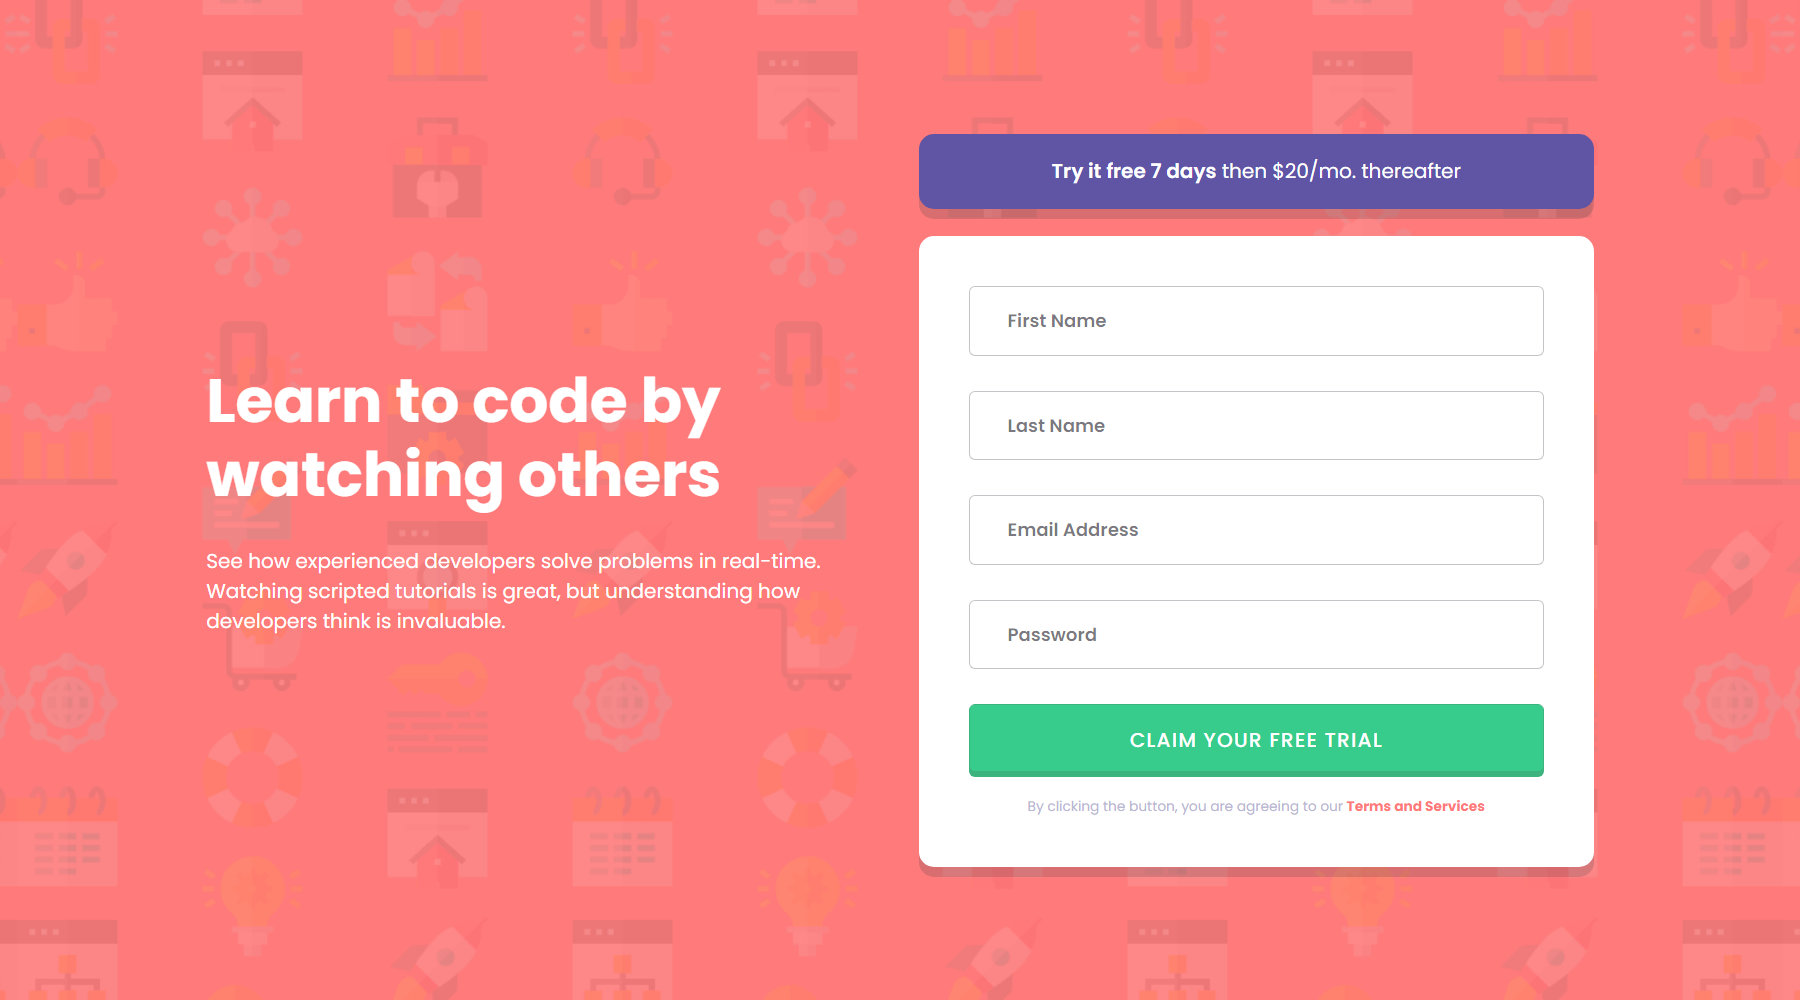
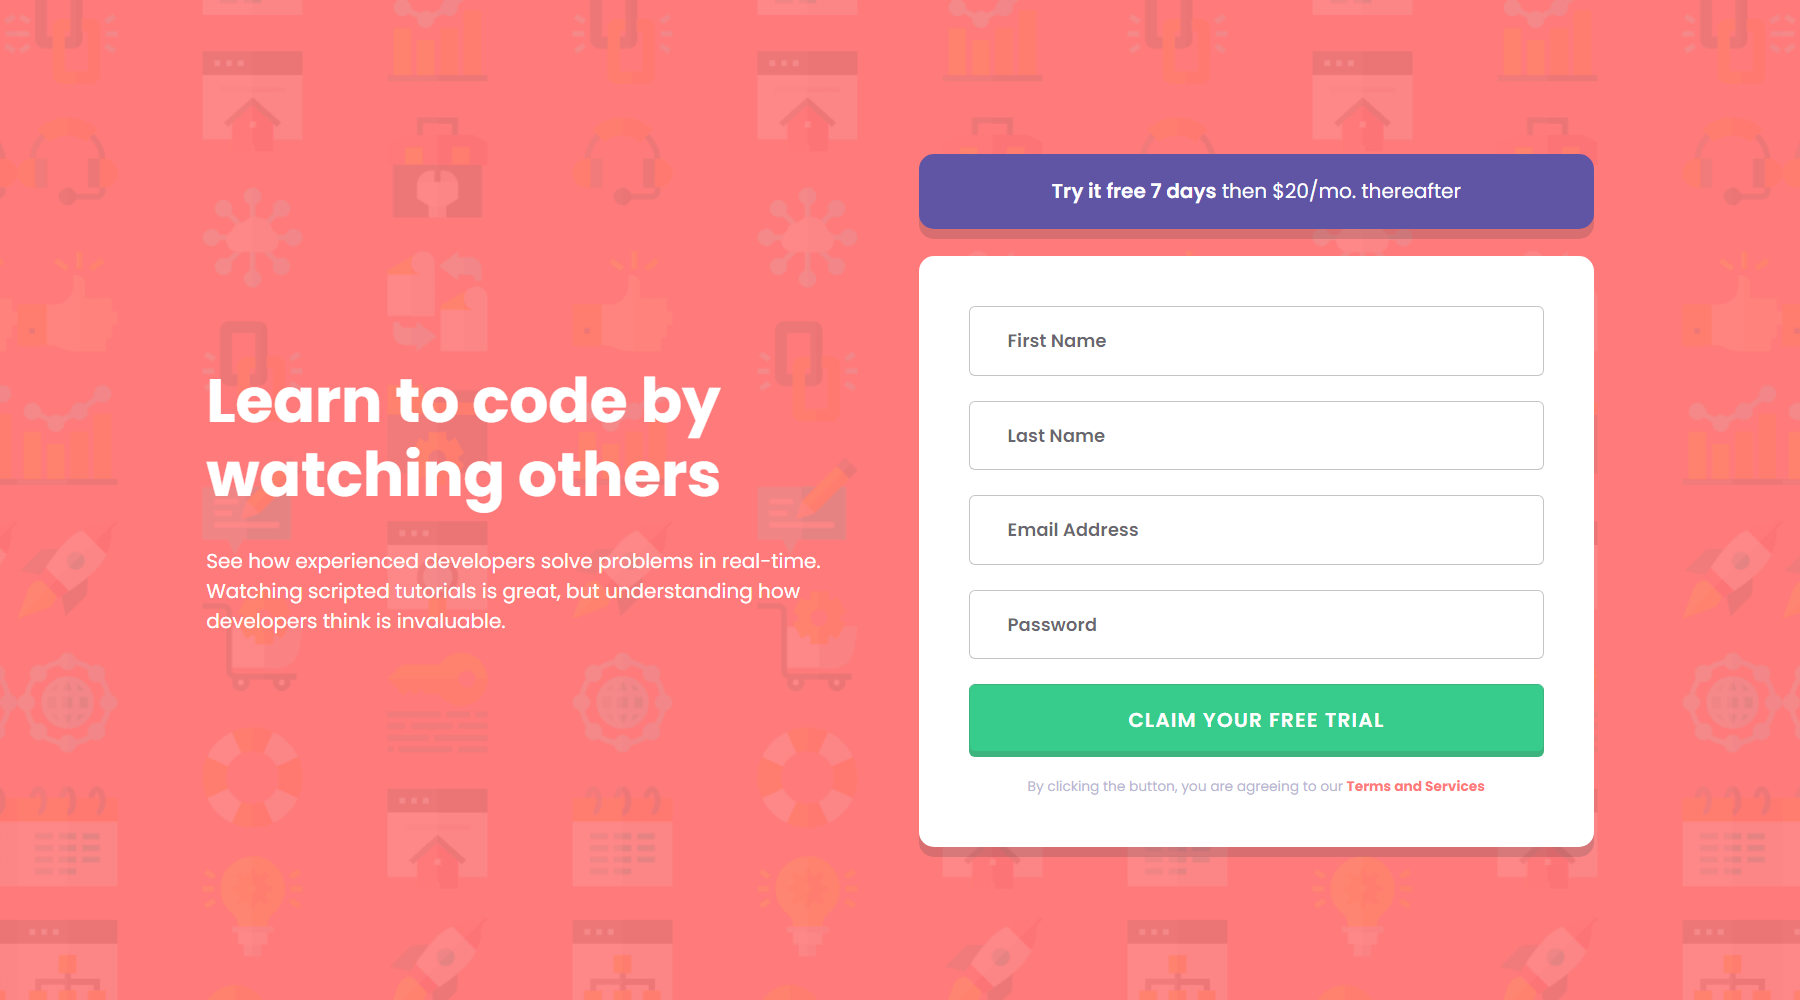
fixing positioning

diff --git a/js/validation.js b/js/validation.js
@@ -8,7 +8,8 @@ for(let i=0;i<inputs.length;i++)
       this.value="";
     this.classList.remove("error_input");
     this.nextElementSibling.innerHTML="";
-    this.style.setProperty("--color_placeholder","hsla(249, 10%, 26%,.7)");
+    this.nextElementSibling.style.display="none";
+    this.style.setProperty("--color_placeholder","hsla(249, 10%, 26%,.8)");
   });
 
   inputs[i].addEventListener("invalid",function(e){
@@ -17,6 +18,7 @@ for(let i=0;i<inputs.length;i++)
       if(this.value=="")
       {
         this.nextElementSibling.innerHTML= this.placeholder+" can not be empty";
+        this.nextElementSibling.style.display="block";
         this.style.setProperty("--color_placeholder","transparent");
       }
       else{
@@ -27,5 +29,5 @@ for(let i=0;i<inputs.length;i++)
         }
       }  
   });
-  
+
 }

diff --git a/css/style.css b/css/style.css
@@ -9,7 +9,7 @@ html{
 }
 
 :root{
-  --color_placeholder: hsla(249, 10%, 26%,.7);
+  --color_placeholder: hsla(249, 10%, 26%,.8);
   --red: hsl(0, 100%, 74%);
   --green: hsl(154, 59%, 51%);
   --purple: hsl(248, 32%, 49%);
@@ -104,12 +104,12 @@ input:focus{
 
 .error_message{
   text-align: right;
-  display: block;
   color:var(--red) ;
   font-size: 0.6875rem;
   font-style: italic;
   margin-top: 0.5rem;
   font-weight: 500;
+  display: none;
 }
   
 #claim{
@@ -119,7 +119,7 @@ input:focus{
   border-radius: 0.3rem;
   font-family: inherit;
   color: white;
-  font-weight: 500;
+  font-weight: 600;
   border: none;
   font-size: inherit;
   letter-spacing: 1px;
